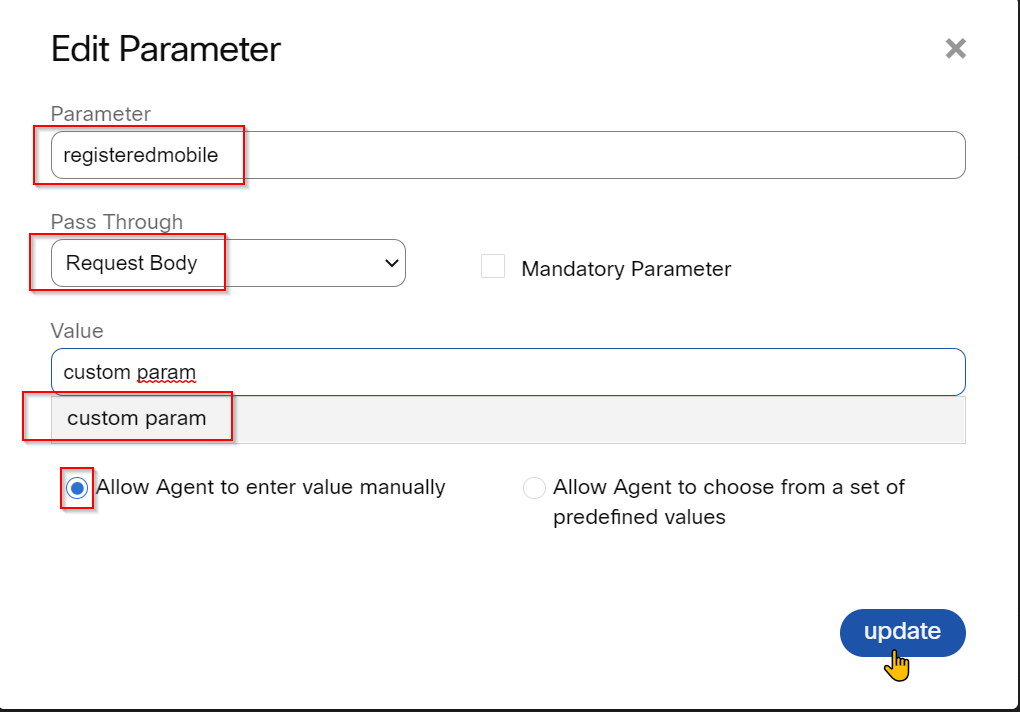
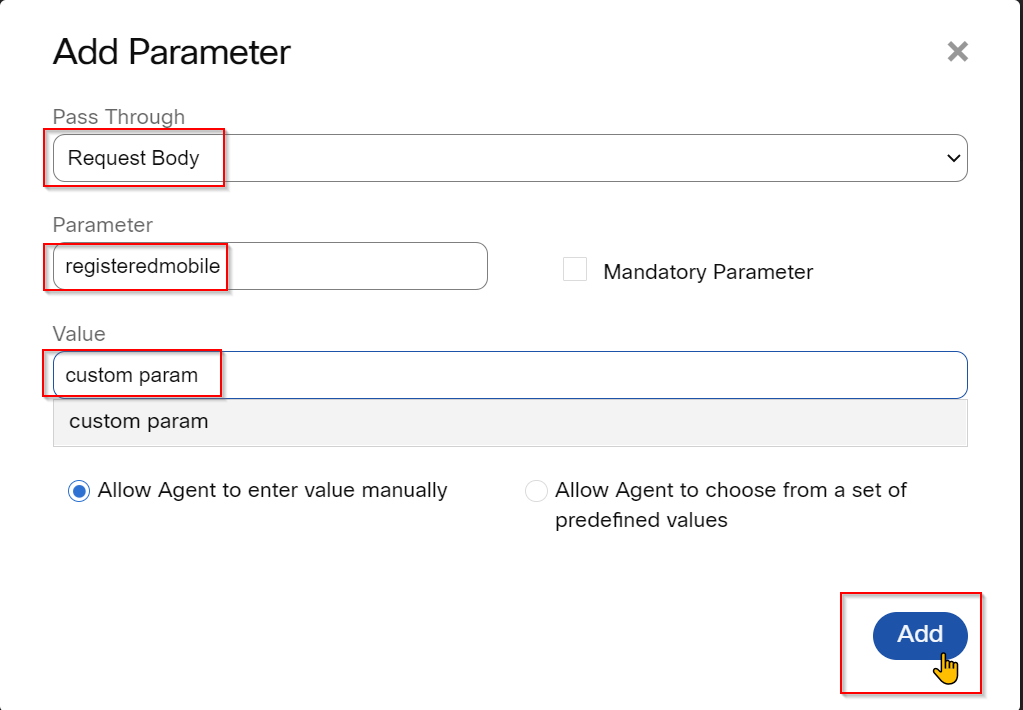
mayvyas_update2

diff --git a/LTRCCT-2336/Lab2_Chat.md b/LTRCCT-2336/Lab2_Chat.md
@@ -476,14 +476,29 @@ Here is a screenshot of the Dropdown configuration with 2 options, one for **Sal
 
 ## Step 7. Verification - start live chat and accept the request.
 
-- Open a new tab and login to the Agent Desktop and make the agent Available (if you haven't done already in Lab1).
-> Agent Desktop: **[https://portal.wxcc-anz1.cisco.com](https://portal.wxcc-anz1.cisco.com){:target="_blank"}**\
+- Open a new incognito tab and login to the Agent Desktop and make the agent Available (if you haven't done already in Lab1).
+> Agent Desktop: **[https://desktop.wxcc-anz1.cisco.com](https://desktop.wxcc-anz1.cisco.com){:target="_blank"}**\
 
 <img align="middle" src="images/AU_Lab2_Agent1.png" width="1000" />
 <br/>
 <br/>
 
-- Go back to the tab where you opened [W3Schools Online HTML Editor](https://www.w3schools.com/tryit/tryit.asp?filename=tryhtml_hello){:target="_blank"} and pasted the live chat widget code.
+
+- Go back to Webex Connect Engage portal, LiveChat > select Installation tab and Copy the chat script code.
+
+<img align="middle" src="images/AU_Lab2_18.png" width="1000" />
+<br/>
+<br/>
+
+- Open a new tab in your browser and navigate to [W3Schools Online HTML Editor](https://www.w3schools.com/tryit/tryit.asp?filename=tryhtml_hello){:target="_blank"}.
+
+- In the HTML example section, click on Try it yourself. (A new tab opens).
+
+- Paste the chat bubble code just above the `</body>` tag and click on **Run** button
+
+<img align="middle" src="images/AU_Lab2_24.png" width="1000" />
+<br/>
+<br/>
 
 - Click `Start Conversation`
 
@@ -503,7 +518,7 @@ Here is a screenshot of the Dropdown configuration with 2 options, one for **Sal
 <br/>
 <br/>
 
-- The form submission will be presented to the customer
+- The form submission will be presented to the Agent
 
 <img align="middle" src="images/AU_Lab2_Chat4.png" width="1000" />
 <br/>

diff --git a/LTRCCT-2336/Lab4_AgentProductivity.md b/LTRCCT-2336/Lab4_AgentProductivity.md
@@ -95,7 +95,7 @@ In this Lab, we will go through the tasks that are required to configure a basic
 <br/>
 <br/>
 
-- In the **Edit Parameter**: 
+- In the **Add Parameter**: 
   
   -- Type Parameter name - **registeredmobile** (All in small letters)
 
@@ -105,7 +105,7 @@ In this Lab, we will go through the tasks that are required to configure a basic
 
   -- select radio button **Allow Agent to enter value manually**
 
-  -- Click on **Update**
+  -- Click on **Add**
 
 <img align="middle" src="images/AU_Lab4_10.png" width="1000" />
 <br/>
